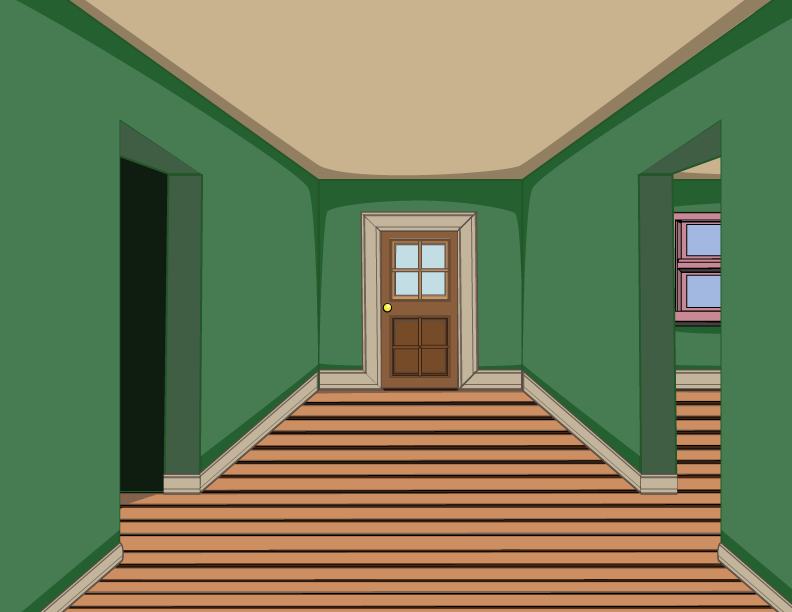
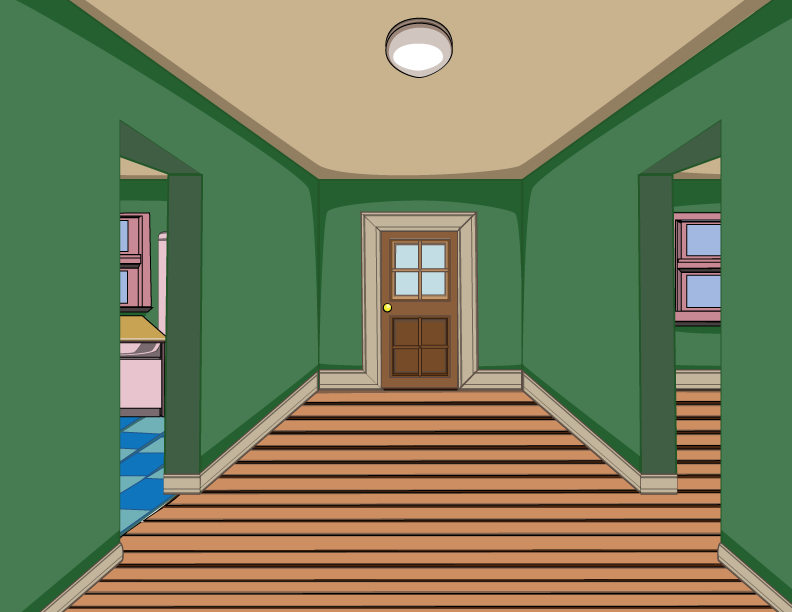
added navigation

Changed region(s): [[0.1515, 0.2484, 0.2424, 0.8693], [0.4848, 0.031, 0.5758, 0.1242]]

diff --git a/views/kitchen.html b/views/kitchen.html
@@ -1,7 +1,7 @@
 <!DOCTYPE html>
 <html>
 <head>
-    <link rel="stylesheet" href="../styles/hallway.css" type="text/css" />
+    <link rel="stylesheet" href="../styles/kitchen.css" type="text/css" />
     <link rel="stylesheet" href="../styles/index.css" type="text/css" />
     <link href="https://fonts.googleapis.com/css?family=Chicle&display=swap" rel="stylesheet">
     <style></style>
@@ -14,7 +14,7 @@
                 <button id="radar">+</button>
             </div>
 
-        <img id="Hallway" src="../images/Hallway01.png" />
+        <img id="Kitchen" src="../images/Kitchen01.png" />
 
         <div id="itemPanelContainer">
                 <button id="profileButton"><img id="profilePic" src="../images/MaxwellBentley.gif" style="width:85px"/></button>
@@ -27,23 +27,9 @@
                     </ul>
                 </div>
         </div>
-        
-        <div id="leftnav">
-            <a href="./kitchen.html" ><img src="../images/chevron-circle-left-solid.svg"></img></a>
-        </div>
-
         <div id="rightnav">
-        <a href="./livingroom.html" ><img src="../images/chevron-circle-right-solid.svg"></img></a>
+        <a href="./hallway.html" ><img src="../images/chevron-circle-right-solid.svg"></img></a>
         </div>
-
-        <div id="upnav">
-            <a href="../index.html" ><img src="../images/chevron-circle-up-solid.svg"></img></a>
-        </div>
-
-        <div id="downnav">
-            <a href="staircase.html" ><img src="../images/chevron-circle-down-solid.svg"></img></a>
-        </div>
-
     </div>
     <script src="./scripts/logic.js"></script>
     <script src="https://ajax.googleapis.com/ajax/libs/jquery/3.4.1/jquery.min.js"></script>

diff --git a/views/staircase.html b/views/staircase.html
@@ -14,7 +14,7 @@
                 <button id="radar">+</button>
             </div>
 
-        <img id="Hallway" src="../images/Hallway01.png" />
+        <img id="Hallway" src="../images/Staircase01.png" />
 
         <div id="itemPanelContainer">
                 <button id="profileButton"><img id="profilePic" src="../images/MaxwellBentley.gif" style="width:85px"/></button>
@@ -27,21 +27,13 @@
                     </ul>
                 </div>
         </div>
-        
-        <div id="leftnav">
-            <a href="./kitchen.html" ><img src="../images/chevron-circle-left-solid.svg"></img></a>
-        </div>
-
-        <div id="rightnav">
-        <a href="./livingroom.html" ><img src="../images/chevron-circle-right-solid.svg"></img></a>
-        </div>
 
         <div id="upnav">
-            <a href="../index.html" ><img src="../images/chevron-circle-up-solid.svg"></img></a>
+            <a href="staircase.html" ><img src="../images/chevron-circle-up-solid.svg"></img></a>
         </div>
 
         <div id="downnav">
-            <a href="staircase.html" ><img src="../images/chevron-circle-down-solid.svg"></img></a>
+            <a href="hallway.html" ><img src="../images/chevron-circle-down-solid.svg"></img></a>
         </div>
 
     </div>

diff --git a/index.html b/index.html
@@ -13,14 +13,7 @@
                 <button id="radar">+</button>
             </div>
 
-        <img id="Apartment01" src="./images/Apartment02.png" />
-        <div>
-        <button id="blindsLeft" onclick="closeBlinds()"><img id="Blinds" src="./images/Blinds01.png"/></button>
-        </div>
-        <img id="Tv01" src="./images/Tv01.png" alt="" width="1100" height="730"/>
-        <div id="screenContainer">
-            <button id="onButton" onclick="printImage()" style="width:90px"><img id="screen" src="./images/screen.png" style="width:66px"/></button>
-        </div>  
+        <img id="Apartment01" src="./images/Front.png" />
 
         <div id="itemPanelContainer">
                 <button id="profileButton"><img id="profilePic" src="./images/MaxwellBentley.gif" style="width:85px"/></button>
@@ -32,6 +25,10 @@
                         <li>MAP</li>
                     </ul>
                 </div>
+        </div>
+
+        <div id="upnav">
+            <a href="./views/hallway.html" ><img src="./images/chevron-circle-up-solid.svg"></img></a>
         </div>
         
     </div>

diff --git a/styles/kitchen.css b/styles/kitchen.css
@@ -1,0 +1,44 @@
+#roomContainer{
+    position:fixed;
+    top:0px;
+    left:0px;
+    background-color:#497C51;
+    border-color:#286130;
+    border-style:solid;
+    width:100vw;
+    height:100vh;
+}
+
+#Kitchen{
+    margin: 20px 20px;
+    width:96vw;
+    height:634px;
+    border-color:#286130;
+    border-style:solid;
+    border-radius:25px;
+}
+
+#radarContainer{
+    display:inline-block;
+    background-color:grey;
+    border-color:#286130;
+    border-style:solid;
+    border-radius:90px;
+    position:fixed;
+    top:40px;
+    right:55px;
+    width: 100px;
+    height: 100px;
+}
+
+#radar{
+    text-align:center;
+    background-color:black;
+    border-radius:90px;
+    padding: 0px;
+    width: 100px;
+    height: 100px;
+    outline:none;
+    color:green;
+    font-size:37px;
+}

diff --git a/styles/index.css b/styles/index.css
@@ -158,3 +158,21 @@ ul{
     width: 100px;
     height: 100px;
 }
+
+#upnav{
+    display:inline-block;
+    position:fixed;
+    top:300px;
+    left:45%;
+    width: 100px;
+    height: 100px;
+}
+
+#downnav{
+    display:inline-block;
+    position:fixed;
+    bottom:10px;
+    left:45%;
+    width: 100px;
+    height: 100px;
+}
